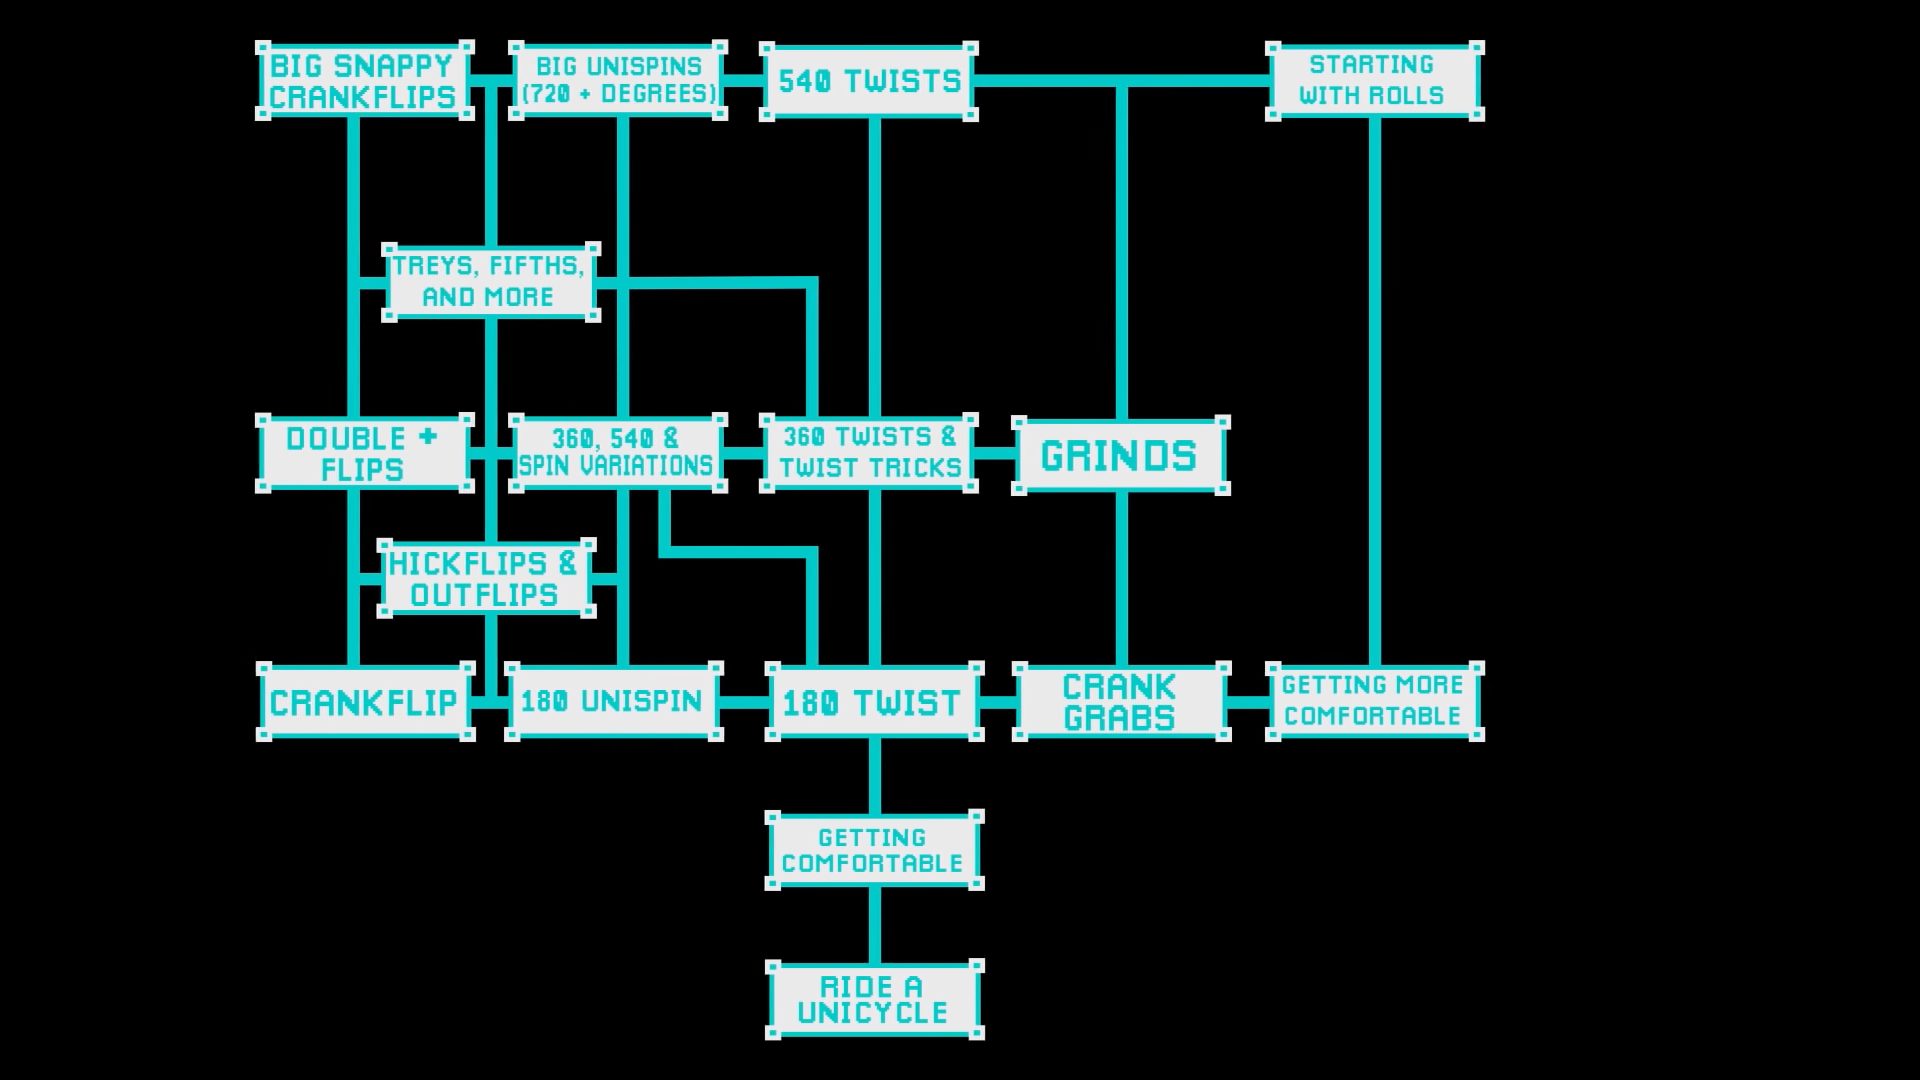
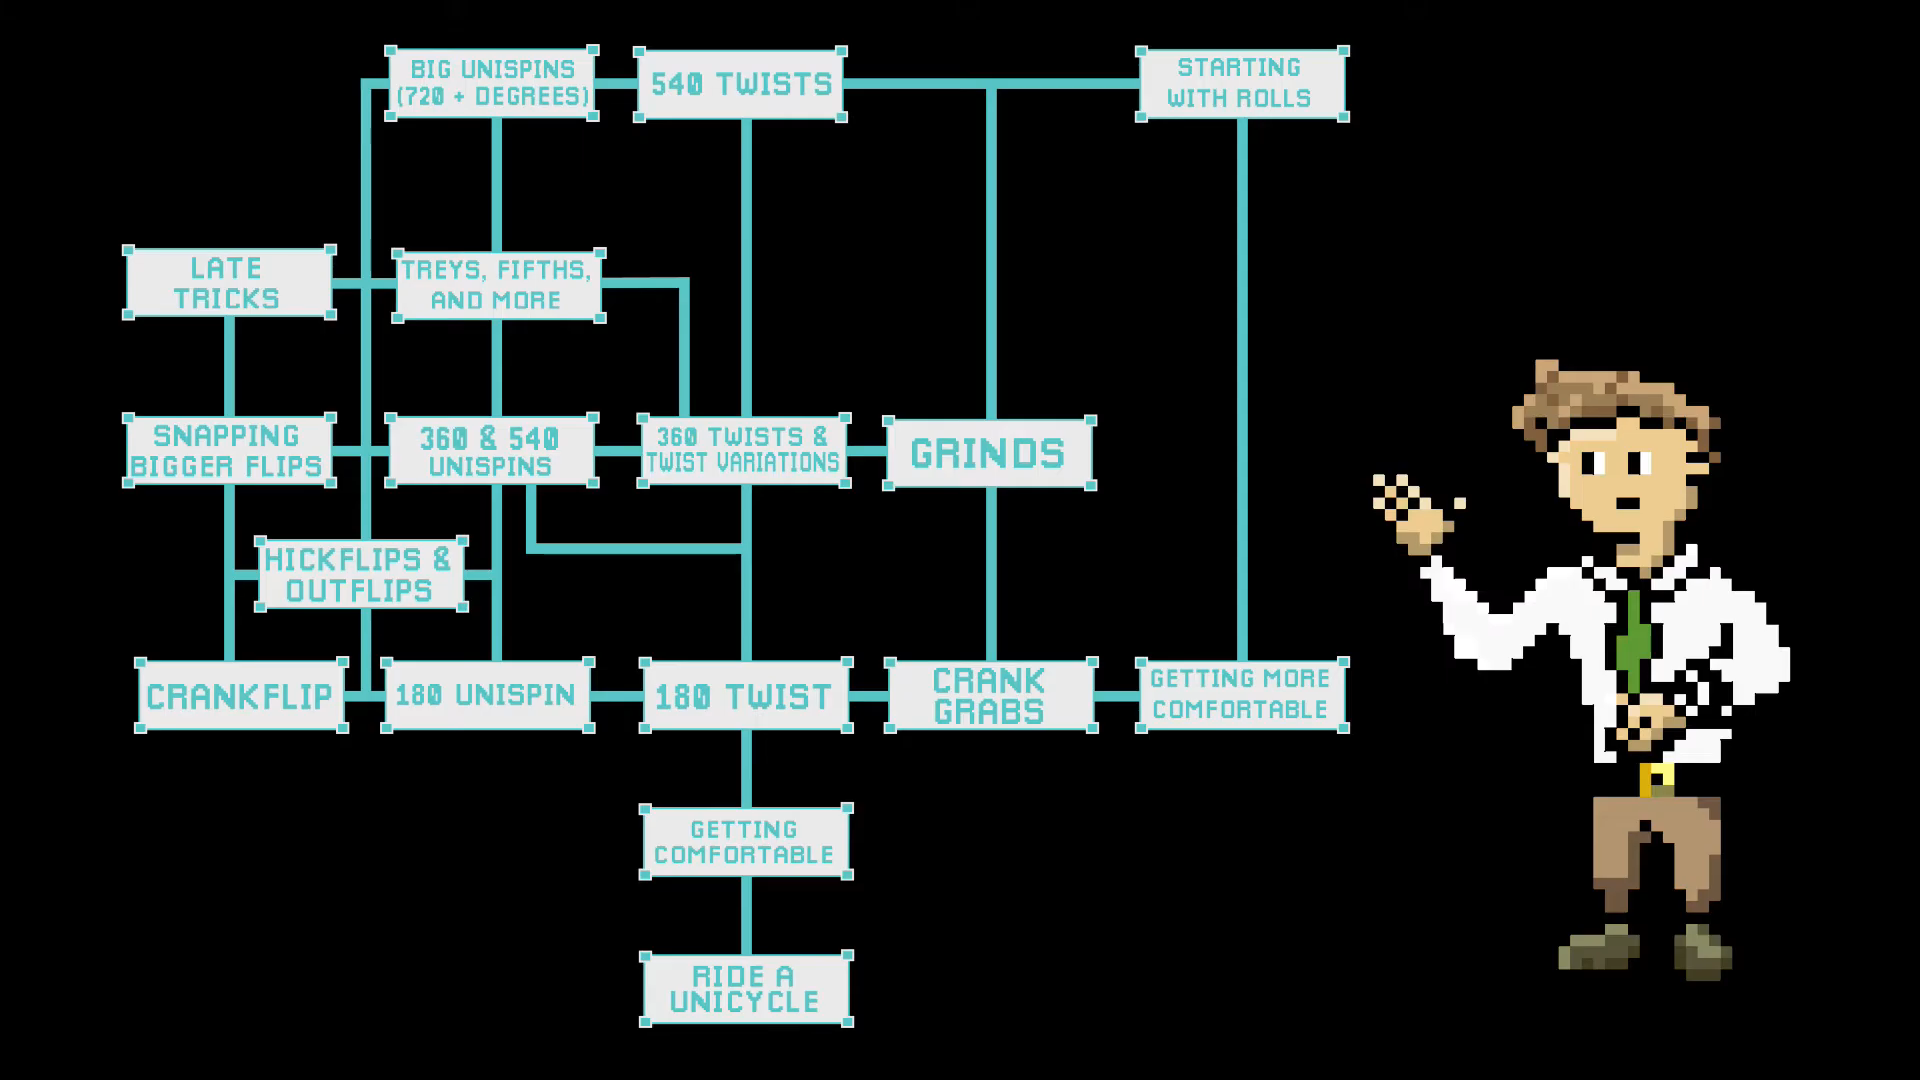
Update Skilltree and some links

Changed region(s): [[0.0625, 0.0306, 0.9375, 0.9778]]

diff --git a/public/css/osu.css b/public/css/osu.css
@@ -107,3 +107,7 @@ a {
 a:hover {
     color: #960000;
 }
+
+.clickable {
+    cursor: pointer;
+}

diff --git a/public/css/main.css b/public/css/main.css
@@ -41,3 +41,7 @@
     width: 100%;
     height: 100%;
 }
+
+.clickable {
+    cursor: pointer;
+}

diff --git a/resources/views/main/guide/unischool.blade.php b/resources/views/main/guide/unischool.blade.php
@@ -3,96 +3,97 @@
 @section('body')
     <h1>Eli Brill's Unicycle School</h1>
     <hr>
-    <p>Work in Progress</p>
+    <p>Welcome to Eli Brill's Unicycle School! Soon you will be able to use this page to save your progress as you complete the homework for each video in this series. You can also join the <a target="_blank" rel="noopener noreferrer" href="https://discord.gg/8BAb7Cf">Unicycling Discord Server</a> to get help homework help and submit videos of yourself completing them in order to gain recognition for completing each homework assignment!</p>
+    <p>Be sure to <a target="_blank" rel="noopener noreferrer" href="https://www.youtube.com/channel/UCgHpSZa5KBTj_GK1fpsmK1w?sub_confirmation=1"> subscribe to Eli</a> and <a target="_blank" rel="noopener noreferrer" href="https://www.youtube.com/watch?list=PLdKARu4d6vwXYhdoLgOQNKOfvj8NVhnMa&v=LUNv6B6JBJ8">check out the full series</a>!</p>
     <div class="row">
         <div class="col-lg-12">
             <figure id="projectsvg">
                 <svg version="1.1" xmlns="http://www.w3.org/2000/svg" xmlns:xlink="http://www.w3.org/1999/xlink" viewBox="0 0 1920 1080" preserveAspectRatio="xMinYMin meet" >
                     <!-- set your background image -->
-                    <image width="1920" height="1080" xlink:href="/images/Skill_Tree.PNG" />
+                    <image width="1920" height="1080" xlink:href="/images/Skill_Tree.png" />
                     <g class="hover_group" opacity="0">
-                        <a xlink:href="#" data-toggle="modal" data-target="#rideAUnicycle">
-                            <rect x="765" y="958" width="220" height="83"></rect>
+                        <a class="clickable" data-toggle="modal" data-target="#rideAUnicycle">
+                            <rect x="638" y="949" width="217" height="79"></rect>
                         </a>
                     </g>
                     <g class="hover_group" opacity="0">
-                        <a xlink:href="#" data-toggle="modal" data-target="#gettingComfortable">>
-                            <rect x="764" y="808" width="221" height="83"></rect>
+                        <a class="clickable" data-toggle="modal" data-target="#gettingComfortable">
+                            <rect x="638" y="802" width="216" height="79"></rect>
                         </a>
                     </g>
                     <g class="hover_group" opacity="0">
-                        <a xlink:href="#" data-toggle="modal" data-target="#Twist180">>
-                            <rect x="764" y="660" width="221" height="82"></rect>
+                        <a class="clickable" data-toggle="modal" data-target="#twist180">
+                            <rect x="638" y="656" width="216" height="78"></rect>
                         </a>
                     </g>
                     <g class="hover_group" opacity="0">
-                        <a xlink:href="#" data-toggle="modal" data-target="#Unispin180">>
-                            <rect x="504" y="660" width="220" height="82"></rect>
+                        <a class="clickable" data-toggle="modal" data-target="#unispin180">
+                            <rect x="380" y="656" width="216" height="78"></rect>
                         </a>
                     </g>
                     <g class="hover_group" opacity="0">
-                        <a xlink:href="#" data-toggle="modal" data-target="#crankflip">>
-                            <rect x="255" y="660" width="221" height="82"></rect>
+                        <a class="clickable" data-toggle="modal" data-target="#crankflip">
+                            <rect x="134" y="656" width="216" height="78"></rect>
                         </a>
                     </g>
                     <g class="hover_group" opacity="0">
-                        <a xlink:href="#" data-toggle="modal" data-target="#crankgrab">>
-                            <rect x="1010" y="660" width="222" height="82"></rect>
+                        <a class="clickable" data-toggle="modal" data-target="#crankgrab">
+                            <rect x="882" y="656" width="217" height="78"></rect>
                         </a>
                     </g>
                     <g class="hover_group" opacity="0">
-                        <a xlink:href="#" data-toggle="modal" data-target="#gettingMoreComfortable">>
-                            <rect x="1265" y="660" width="221" height="82"></rect>
+                        <a class="clickable" data-toggle="modal" data-target="#gettingMoreComfortable">
+                            <rect x="1134" y="656" width="216" height="78"></rect>
                         </a>
                     </g>
                     <g class="hover_group" opacity="0">
-                        <a xlink:href="#" data-toggle="modal" data-target="#hickflipAndOutflip">>
-                            <rect x="376" y="537" width="221" height="82"></rect>
+                        <a class="clickable" data-toggle="modal" data-target="#hickflipAndOutflip">
+                            <rect x="254" y="534" width="215" height="79"></rect>
                         </a>
                     </g>
                     <g class="hover_group" opacity="0">
-                        <a xlink:href="#" data-toggle="modal" data-target="#grinds">>
-                            <rect x="1011" y="414" width="220" height="82"></rect>
+                        <a class="clickable" data-toggle="modal" data-target="#grinds">
+                            <rect x="882" y="414" width="216" height="78"></rect>
+                        </a>
+                    </g>
+                    <g class="hover_group" opacity="0">
+                        <a class="clickable" data-toggle="modal" data-target="#snappyFlips">
+                            <rect x="121" y="411" width="217" height="78"></rect>
                         </a>
                     </g>
                     <g class="hover_group" opacity="1">
-                        <a xlink:href="#" data-toggle="modal" data-target="#comingSoon">>
-                            <rect x="255" y="412" opacity="0.5" fill="#000000" width="220" height="82"></rect>
+                        <a class="clickable" data-toggle="modal" data-target="#comingSoon">
+                            <rect x="384" y="411" opacity="0.5" fill="#000000" width="216" height="78"></rect>
                         </a>
                     </g>
                     <g class="hover_group" opacity="1">
-                        <a xlink:href="#" data-toggle="modal" data-target="#comingSoon">>
-                            <rect x="508" y="412" opacity="0.5" fill="#000000" width="221" height="82"></rect>
+                        <a class="clickable" data-toggle="modal" data-target="#comingSoon">
+                            <rect x="636" y="412" opacity="0.5" fill="#000000" width="216" height="77"></rect>
                         </a>
                     </g>
                     <g class="hover_group" opacity="1">
-                        <a xlink:href="#" data-toggle="modal" data-target="#comingSoon">>
-                            <rect x="758" y="412" opacity="0.5" fill="#000000" width="222" height="82"></rect>
+                        <a class="clickable" data-toggle="modal" data-target="#comingSoon">
+                            <rect x="122" y="243" opacity="0.5" fill="#000000" width="215" height="78"></rect>
                         </a>
                     </g>
                     <g class="hover_group" opacity="1">
-                        <a xlink:href="#" data-toggle="modal" data-target="#comingSoon">>
-                            <rect x="381" y="241" opacity="0.5" fill="#000000" width="221" height="82"></rect>
+                        <a class="clickable" data-toggle="modal" data-target="#comingSoon">
+                            <rect x="391" y="247" opacity="0.5" fill="#000000" width="215" height="77"></rect>
                         </a>
                     </g>
                     <g class="hover_group" opacity="1">
-                        <a xlink:href="#" data-toggle="modal" data-target="#comingSoon">>
-                            <rect x="255" y="39" opacity="0.5" fill="#000000" width="221" height="82"></rect>
+                        <a class="clickable" data-toggle="modal" data-target="#comingSoon">
+                            <rect x="384" y="44" opacity="0.5" fill="#000000" width="216" height="78"></rect>
                         </a>
                     </g>
                     <g class="hover_group" opacity="1">
-                        <a xlink:href="#" data-toggle="modal" data-target="#comingSoon">>
-                            <rect x="508" y="39" opacity="0.5" fill="#000000" width="221" height="82"></rect>
+                        <a class="clickable" data-toggle="modal" data-target="#comingSoon">
+                            <rect x="632" y="45" opacity="0.5" fill="#000000" width="216" height="78"></rect>
                         </a>
                     </g>
                     <g class="hover_group" opacity="1">
-                        <a xlink:href="#" data-toggle="modal" data-target="#comingSoon">>
-                            <rect x="758" y="40" opacity="0.5" fill="#000000" width="221" height="82"></rect>
-                        </a>
-                    </g>
-                    <g class="hover_group" opacity="1">
-                        <a xlink:href="#" data-toggle="modal" data-target="#comingSoon">>
-                            <rect x="1265" y="40" opacity="0.5" fill="#000000" width="221" height="82"></rect>
+                        <a class="clickable" data-toggle="modal" data-target="#comingSoon">
+                            <rect x="1134" y="45" opacity="0.5" fill="#000000" width="216" height="78"></rect>
                         </a>
                     </g>
                 </svg>
@@ -209,7 +210,7 @@
     </div>
 </div>
 
-<div class="modal" id="Twist180">
+<div class="modal" id="twist180">
     <div class="modal-dialog">
         <div class="modal-content">
 
@@ -255,7 +256,7 @@
     </div>
 </div>
 
-<div class="modal" id="Unispin180">
+<div class="modal" id="unispin180">
     <div class="modal-dialog">
         <div class="modal-content">
 
@@ -508,6 +509,47 @@
                 <div class="form-check">
                     <label class="form-check-label">
                         <input type="checkbox" class="form-check-input" name="streetUniX" id="streetUniX">Check out <a target="_blank" rel="noopener noreferrer" href="https://daffodil.itch.io/street-uni-x">Steet Uni X</a>.
+                    </label>
+                </div>
+            </div>
+
+            <!-- Modal footer -->
+            <div class="modal-footer">
+                <button type="button" class="btn btn-danger" data-dismiss="modal">Close</button>
+            </div>
+
+        </div>
+    </div>
+</div>
+
+<div class="modal" id="snappyFlips">
+    <div class="modal-dialog">
+        <div class="modal-content">
+
+            <!-- Modal Header -->
+            <div class="modal-header">
+                <h4 class="modal-title">Snapping Bigger Flips</h4>
+                <button type="button" class="close" data-dismiss="modal">&times;</button>
+            </div>
+
+            <!-- Modal body -->
+            <div class="modal-body">
+                <h4>Video</h4>
+                <p>
+                    <div class="vid-container">
+                        <iframe src="//www.youtube.com/embed/mFnN0zV38Ds"
+                        frameborder="0" allowfullscreen class="video"></iframe>
+                    </div>
+                </p>
+                <h4>Homework</h4>
+                <div class="form-check">
+                    <label class="form-check-label">
+                        <input type="checkbox" class="form-check-input" name="doubleflip" id="doubleflip">Doubleflip.
+                    </label>
+                </div>
+                <div class="form-check">
+                    <label class="form-check-label">
+                        <input type="checkbox" class="form-check-input" name="backflip" id="backflip">Backflip.
                     </label>
                 </div>
             </div>

diff --git a/resources/views/main/guide/guide.blade.php b/resources/views/main/guide/guide.blade.php
@@ -45,10 +45,10 @@
             <p>
                 There's plenty of unicyclists on every social media platform out there. Find your preferred platform here and ask for help!
                 <ul>
-                    <li><a href="https://discord.gg/RXgdcTw">Discord</a></li>
-                    <li><a href="https://www.reddit.com/r/unicycling/">Reddit</a></li>
-                    <li><a href="https://www.facebook.com/groups/115835695144753/">Facebook</a></li>
-                    <li><a href="http://unicyclist.com/forums/">Unicyclist.com Forum</a></li>
+                    <li><a target="_blank" rel="noopener noreferrer" href="https://discord.gg/RXgdcTw">Discord</a></li>
+                    <li><a target="_blank" rel="noopener noreferrer" href="https://www.reddit.com/r/unicycling/">Reddit</a></li>
+                    <li><a target="_blank" rel="noopener noreferrer" href="https://www.facebook.com/groups/115835695144753/">Facebook</a></li>
+                    <li><a target="_blank" rel="noopener noreferrer" href="http://unicyclist.com/forums/">Unicyclist.com Forum</a></li>
                 </ul>
                 I recommend Discord as I own the Discord server myself, and will respond fairly quickly if you need help. However, it can be hard to get used to so go ahead and use whatever platform you're most comfortable with!
             </p>
